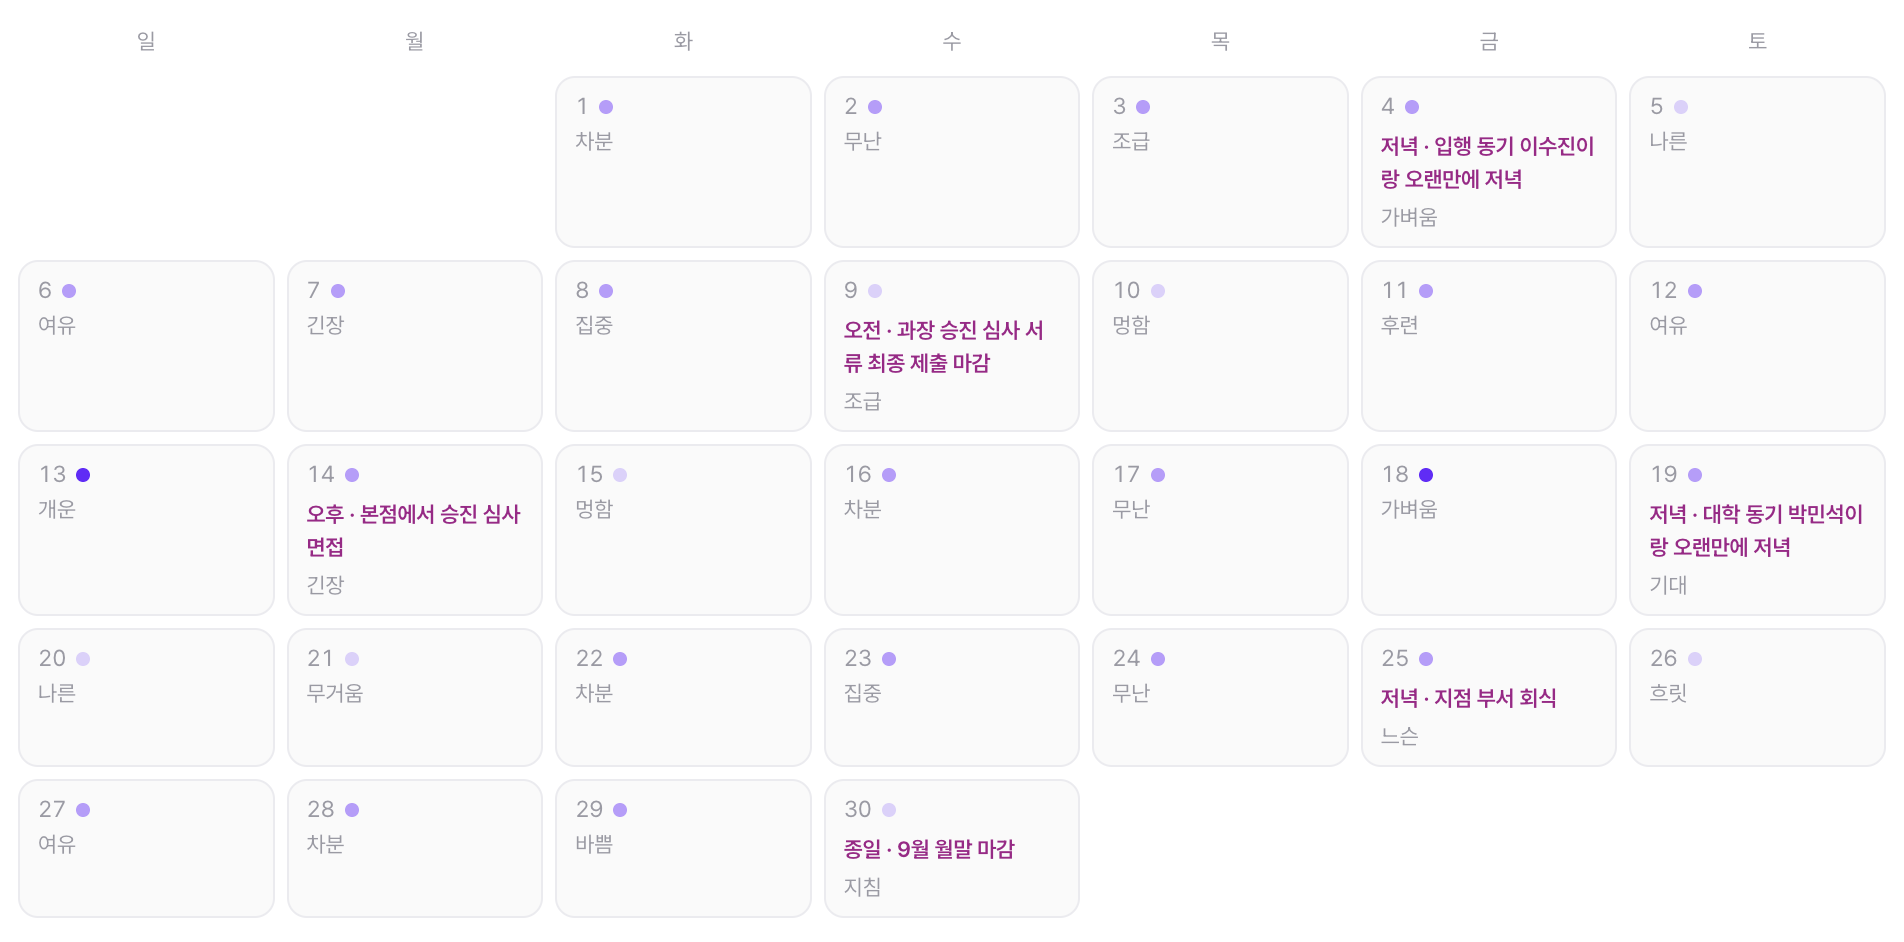
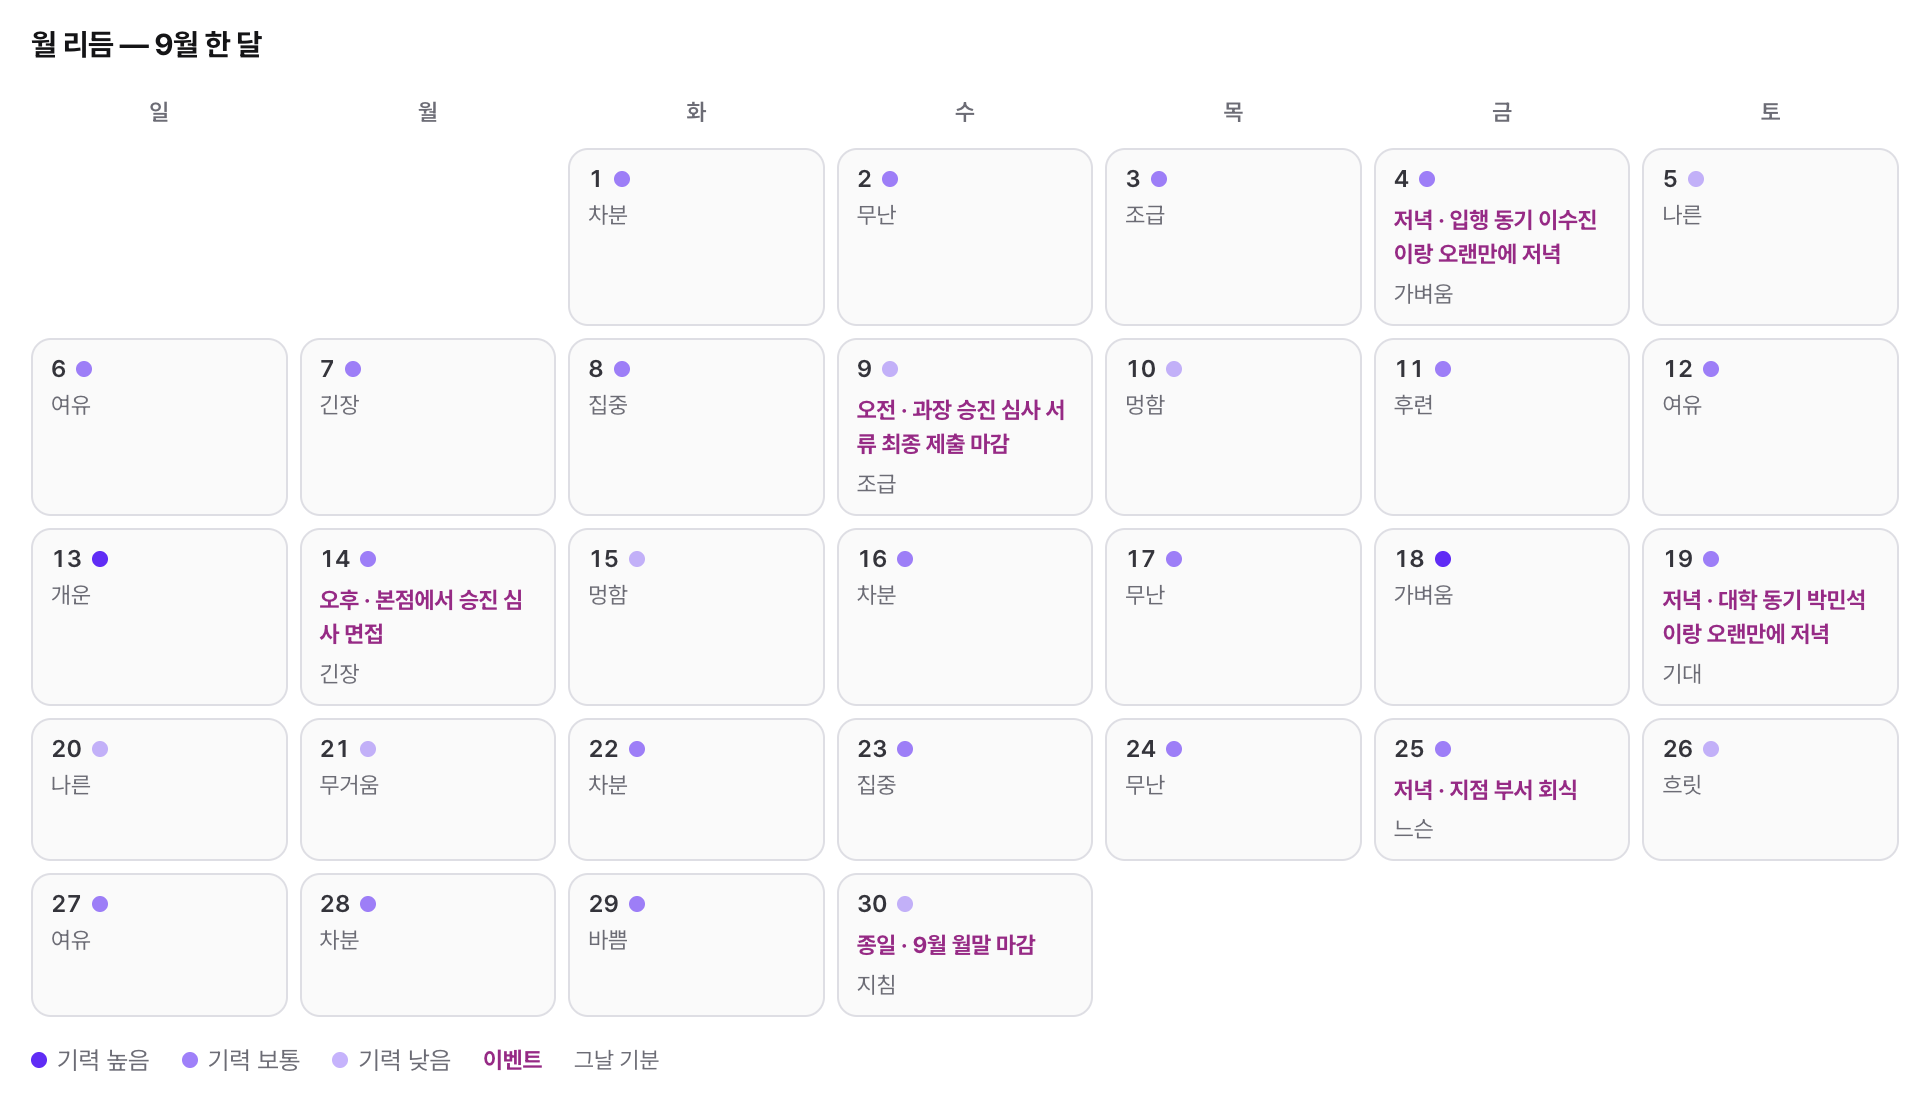
docs: 연락 방식 도입과 답장 텀 설명을 줄이기 (#201)

diff --git a/README.md b/README.md
@@ -76,7 +76,7 @@
 
 ## 캐릭터의 연락 방식
 
-캐릭터는 자기 삶을 사는 중이라 유저가 연락한다고 언제나 즉답하지 않고, 그날 하루 일정을 기준으로 답장한다. 캐릭터를 만들 때 함께 생성해둔 하루 각본을 보고 지금 무엇을 하는 시간인지에 따라 답장 텀을 정한다.
+캐릭터는 자신의 일상을 가지기 때문에 유저의 연락에 언제나 바로 답하지 않는다. 캐릭터에게 주어진 하루 각본에서 지금 시간이 어떤 성격의 일정인지에 따라 답장 텀이 정해진다. 하루 각본은 날마다 새로 만들어지므로, 어제 바로 답이 오던 시각에 오늘은 한참 뒤에 오기도 한다.
 
 <p align="center">
   <img src="assets/fig-day-plan.png" alt="하루가 시간대별로 나뉘고 시간대마다 활동 성격과 답장 여건, 답장 텀이 붙어 있는 목록" width="780">
@@ -85,20 +85,14 @@
 
 ### 답장 텀
 
-각본의 시간대마다 태그를 두 종류 붙였다. 지금 메신저를 볼 수 있는지를 나누는 답장 여건(즉답 / 틈틈이 / 불가)과, 유저가 붙잡을 때 접을 수 있는 일인지를 나누는 활동 성격(개인 / 사회 / 공적)이다. 두 태그는 서로 영향을 주지 않아서 회의는 불가·공적, 러닝은 불가·개인, 카페에서 혼자 있는 시간은 즉답·개인이 된다.
-
-답장을 어떻게 할지 일정마다 지정하면 일정 종류가 늘수록 관리하기 어려워져서, 두 태그의 조합 하나만 보고 정하게 했다. 새로 생긴 일정도 태그 두 개만 붙으면 답장 텀이 나오고, 텀을 손볼 일이 생겨도 아래 표 한 장만 고치면 된다.
-
 <p align="center">
-  <img src="assets/fig-reply-matrix.png" alt="답장 여건 세 단계와 활동 성격 세 종류가 만드는 아홉 칸 표, 칸마다 답장 텀 구간이 적혀 있다" width="820">
-  <br><sub>두 태그가 만나는 아홉 칸에서 정해지는 답장 텀 구간과 조정 가능 여부</sub>
+  <img src="assets/fig-reply-matrix.png" alt="세로는 답장 여건 세 단계, 가로는 활동 성격 세 종류인 표. 칸마다 답장 텀 구간이 적혀 있다" width="820">
+  <br><sub>세로는 답장 여건, 가로는 활동 성격 · 두 태그가 만나는 칸의 답장 텀 구간</sub>
 </p>
 
-- **텀은 코드가 계산한다.** 두 태그가 만나는 칸에서 구간을 고르고 그 안에서 매번 다른 값을 뽑는다. 규칙으로 정리되는 판단까지 LLM에 맡기면 매 턴 비용이 들고, 그렇게 해도 잘 지켜지지 않는다.
-- **답장할 수 없는 시간에는 답장을 만들지 않는다.** 회의나 잠처럼 폰을 볼 수 없는 시간에 온 메시지는 그때 답을 만들어 쥐고 있지 않고, 그 일정이 끝나는 시각에 깨어나 쌓인 메시지를 한 번에 읽고 답한다. 만드는 시점과 보내는 시점이 같아서 일정을 막 끝내고 이제 봤다는 말이 실제와 맞는다.
-- **유저가 붙잡으면 일정을 조정한다.** 답장이 어려운 시간에 유저가 붙잡는 말을 하면, 지금 하는 일 한 줄과 유저의 마지막 말만 넘기는 짧은 호출로 붙잡는 말인지만 가른다. 붙잡혔으면 개인 일정은 취소하고 사회 일정은 양해를 구해 미룬 것으로 그날 실제 기록에 적고, 그때부터 그 시간은 즉답으로 바뀐다. 공적 일정은 취소할 수 없고, 밤에 자다가 연락이 와도 깬다.
-- **유저 쪽 리듬에도 맞춘다.** 유저가 말을 나눠 보내면 다 올 때까지 기다렸다 한 번에 답한다. 이 대기 시간은 그 유저가 메시지를 이어 보낼 때의 간격을 모아 그중 80%가 들어오는 값에 1.4배 여유를 둬 20초에서 40초 사이로 정한다. 사람마다 타이핑 속도가 다르므로 고정값으로는 말을 끊거나 너무 오래 기다린다.
-- **캐릭터의 발화도 나눠서 보낸다.** 한 메시지에 길게 담아 보내면 사람이 보낸 말처럼 읽히지 않아서, 할 말을 최대 6개 말풍선으로 쪼갠 뒤 글자 수에 비례한 타이핑 시간을 두고 순차 전송한다.
+하루 각본을 만들 때 모델이 일정마다 성격에 맞는 태그를 두 개씩 붙인다. 지금 메신저를 볼 수 있는지를 나누는 답장 여건(즉답 / 틈틈이 / 불가)과, 유저가 붙잡을 때 미루거나 취소할 수 있는 일인지를 나누는 활동 성격(개인 / 사회 / 공적)이다. 답장 텀은 두 태그의 조합이 가리키는 칸에서 코드가 무작위로 고르므로, 새로운 일정이 생겨도 태그 두 개만 붙으면 텀이 나온다.
+
+답장이 불가한 일정에서는 캐릭터도 실제로 답하지 못하고, 그 일정이 끝난 뒤에 그동안 온 메시지를 한 번에 읽고 답한다. 다만 유저가 남아 있기를 원하면 회의나 시험 같은 공적인 일정이 아닌 한 그 일정을 미루거나 취소하고 남는 쪽을 고르도록 구현해뒀다.
 
 ### 선톡
 
